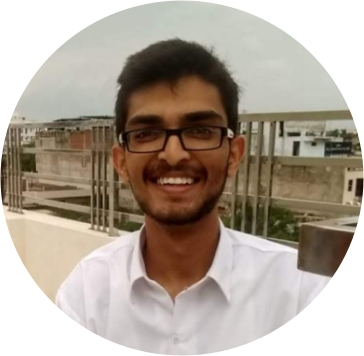
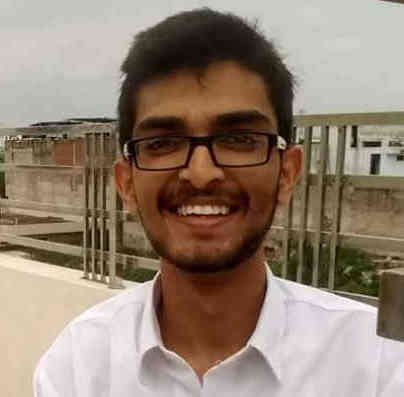
optimized images

diff --git a/_drafts/open-letter-to-elon-musk.md b/_drafts/open-letter-to-elon-musk.md
@@ -2,6 +2,8 @@
 layout: post
 title: Open letter to Elon Musk
 subtitle: 
+description: 
+image: 
 comments: true
 ---
 
